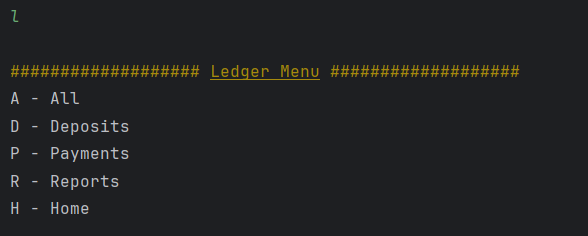
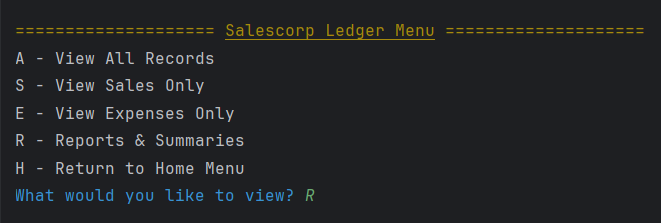
- Customised the ledger app - Stylised outputs - Bugs fixed

diff --git a/src/main/java/com/capstone/Menu.java b/src/main/java/com/capstone/Menu.java
@@ -12,30 +12,35 @@ public class Menu {
         boolean isValid = false;
 
         while (!isValid){
-            System.out.printf(YELLOW+"%n################### "+UNDERLINE+"Main Menu"+RESET+YELLOW+" ###################%n"+RESET);
+            System.out.printf(YELLOW + "%n==================== " + BOLD + UNDERLINE + "Salescorp Main Menu" + RESET +
+                    YELLOW + " ====================%n" + RESET);
 
-            System.out.println("Please choose the letter form the options below.");
-            System.out.println("D - Add Deposit");
-            System.out.println("P - Make Payment");
-            System.out.println("L - Ledger");
-            System.out.println("X - Exit");
+            System.out.println("Welcome to your online seller ledger!");
+            System.out.println("Manage your product sales, expenses, and business reports.\n");
+
+            System.out.println("S - Add New Sale");
+            System.out.println("E - Record Expense");
+            System.out.println("L - View Ledger");
+            System.out.println("X - Exit Application");
+
+            System.out.print(BLUE + "Select an option to continue: " + RESET);
 
             String input = sc.nextLine().toLowerCase().trim();
 
-            if(input.length() == 1 && "dplx".contains(input)){
+            if(input.length() == 1 && "selx".contains(input)){
                 isValid = true;
                 choosenChar = input.charAt(0);
             }else{
-                System.out.printf("%n"+RED+"Invalid input!"+RESET+" Please enter D, P, L, or X.%n");
+                System.out.printf("%n"+RED+"Invalid input!"+RESET+" Please enter the character assigned to the menu.%n");
             }
 
         }
         switch (choosenChar){
-            case 'd':
+            case 's':
                     Services.addTransaction(sc, "deposit");
                     mainMenu();
                 break;
-            case 'p':
+            case 'e':
                     Services.addTransaction(sc, "payment");
                     mainMenu();
                 break;
@@ -59,15 +64,16 @@ public class Menu {
         boolean isValid = false;
 
         while(!isValid){
-            System.out.printf(YELLOW+"%n################### "+UNDERLINE+"Ledger Menu"+RESET+YELLOW+" ###################%n"+RESET);
-            System.out.println("A - All");
-            System.out.println("D - Deposits");
-            System.out.println("P - Payments");
-            System.out.println("R - Reports");
-            System.out.println("H - Home");
+            System.out.printf(YELLOW+"%n==================== "+UNDERLINE+"Salescorp Ledger Menu"+RESET+YELLOW+" ====================%n"+RESET);
+            System.out.println("A - View All Records");
+            System.out.println("S - View Sales Only");
+            System.out.println("E - View Expenses Only");
+            System.out.println("R - Reports & Summaries");
+            System.out.println("H - Return to Home Menu");
 
+            System.out.print(BLUE + "What would you like to view? " + RESET);
             String input = sc.nextLine().toLowerCase().trim();
-            if(input.length() == 1 && "adprh".contains(input)){
+            if(input.length() == 1 && "aserh".contains(input)){
                 isValid = true;
                 choosenChar = input.charAt(0);
             }else{
@@ -79,11 +85,11 @@ public class Menu {
                 Services.showTransactions("All");
                 ledgerMenu();
                 break;
-            case 'd':
+            case 's':
                 Services.showTransactions("Deposit");
                 ledgerMenu();
                 break;
-            case 'p':
+            case 'e':
                 Services.showTransactions("Payment");
                 ledgerMenu();
                 break;
@@ -104,9 +110,8 @@ public class Menu {
         boolean isValid = false;
 
         while(!isValid){
-            System.out.printf(YELLOW+"%n################### "+UNDERLINE+"Reports"+RESET+YELLOW+" ###################%n"+RESET);
+            System.out.printf(YELLOW+"%n====================  "+UNDERLINE+"Salescorp Reports"+RESET+YELLOW+" ====================%n"+RESET);
 
-            System.out.println("Choose the report type you want to be displayed.");
             System.out.println("1 - month to Date");
             System.out.println("2 - Previous Month");
             System.out.println("3 - Year to Date");
@@ -114,11 +119,13 @@ public class Menu {
             System.out.println("5 - Search by Vendor");
             System.out.println("6 - Search by Amount");
             System.out.println("7 - Search by Description");
+            System.out.println("8 - Summary");
             System.out.println("0 - Back");
 
+            System.out.print(BLUE + "Select a report option to continue: " + RESET);
             String input = sc.nextLine().toLowerCase().trim();
 
-            if(input.length() == 1 && "01234567".contains(input)){
+            if(input.length() == 1 && "012345678".contains(input)){
                 isValid = true;
                 choosenChar = input.charAt(0);
             }else{
@@ -162,12 +169,9 @@ public class Menu {
 
                 Services.customSearch("description", description);
                 break;
-//            case '8':
-//                System.out.print("Enter vendor name: ");
-//                String input = sc.nextLine();
-//
-//                Services.customSearch("vendor", input);
-//                break;
+            case '8':
+                Services.displaySummary();
+                break;
             default:
                 System.out.println("Invalid input.");
                 break;

diff --git a/src/main/java/com/capstone/Services.java b/src/main/java/com/capstone/Services.java
@@ -6,6 +6,7 @@ import java.time.format.DateTimeFormatter;
 import java.util.Scanner;
 
 import static com.capstone.Menu.sc;
+import static com.capstone.StringFormatter.*;
 
 public class Services {
 
@@ -197,6 +198,48 @@ public class Services {
             Menu.reportsMenu();
         }catch (IOException e){
             System.out.println("Error reading file." + e.getMessage());
+        }
+    }
+
+    public static void displaySummary(){
+        File ledger = new File("transactions.csv");
+
+        try(BufferedReader reader = new BufferedReader(new FileReader(ledger))){
+            String line = " ";
+            double totalSales = 0.0;
+            double totalExpense = 0.0;
+
+            while((line = reader.readLine()) != null){
+                String[] values = line.split("\\|");
+
+                //Skip the header
+                if(values[4].equalsIgnoreCase("amount")){
+                    continue;
+                }
+                double amount = Double.parseDouble(values[4]);
+
+                //For negative values, add them all as expense and the rest as sales
+                if(amount < 0){
+                    totalExpense += amount;
+                } else {
+                    totalSales += amount;
+                }
+
+            }
+
+            double netProfit = totalSales + totalExpense;
+
+            System.out.printf("%n" + YELLOW + "==================== " + UNDERLINE + "SalesCorp Summary Report" + RESET + YELLOW + " ====================%n" + RESET);
+            System.out.printf("%-20s : " + GREEN + "$%.2f%n" + RESET, "Total Sales", totalSales);
+            System.out.printf("%-20s : " + RED + "$%.2f%n" + RESET, "Total Expenses", Math.abs(totalExpense));
+            System.out.println("------------------------------------------------------");
+            System.out.printf("%-20s : " + (netProfit >= 0 ? GREEN : RED) + "$%.2f%n" + RESET, "Net Profit", netProfit);
+            System.out.println("======================================================");
+
+            Tools.enterToContinue();
+
+        }catch (IOException e){
+            System.out.println("Error reading CSV vile. "+ e.getMessage());
         }
     }
 

diff --git a/src/main/java/com/capstone/Main.java b/src/main/java/com/capstone/Main.java
@@ -9,11 +9,11 @@ public class Main {
     public static void main(String[] args){
         System.out.printf(CYAN + "%n╔════════════════════════════════════════════════════════════════════════╗%n");
         System.out.printf("║******************************* "+RED+BOLD+UNDERLINE+"WELCOME"+RESET+CYAN+" ********************************║%n");
-        System.out.printf("║******************** \uD83D\uDCB0\uD83D\uDCB0"+RED+BOLD+UNDERLINE+"ACCOUNTING LEDGER APP"+RESET+CYAN+"\uD83D\uDCB0\uD83D\uDCB0 ********************║%n");
+        System.out.printf("║******************** \uD83D\uDCB0\uD83D\uDCB0"+RED+BOLD+UNDERLINE+"SALESCORP LEDGER APP"+RESET+CYAN+"\uD83D\uDCB0\uD83D\uDCB0 *********************║%n");
+        System.out.printf("║************** \uD83D\uDCB0\uD83D\uDCB0"+RED+BOLD+UNDERLINE+"INTERNATIONAL LOGISTICS PROVIDER"+RESET+CYAN+"\uD83D\uDCB0\uD83D\uDCB0 ***************║%n");
         System.out.printf("╚════════════════════════════════════════════════════════════════════════╝%n%n"+RESET);
 
         mainMenu();
     }
 
-//═ ║ ╔ ╗ ╚ ╝
 }

diff --git a/README.md b/README.md
@@ -53,6 +53,9 @@ This project demonstrates several **core Java concepts**:
   <img src="screenshots/reportsmenu.png" width="80%"/>
 </p>
 <p align="center">
+  <img src="screenshots/summary.png" width="80%"/>
+</p>
+<p align="center">
   <img src="screenshots/list.png" width="80%"/>
 </p>
 
@@ -144,8 +147,8 @@ Accounting-Ledger-App/
 │       ├── Menu.java
 │       ├── Services.java
 │       ├── Transaction.java
-│       └── StringFormatter.java
-│       └── Tools.java
+│       ├── StringFormatter.java
+│       ├── Tools.java
 │       └── Validators.java
 │
 └── transactions.txt
